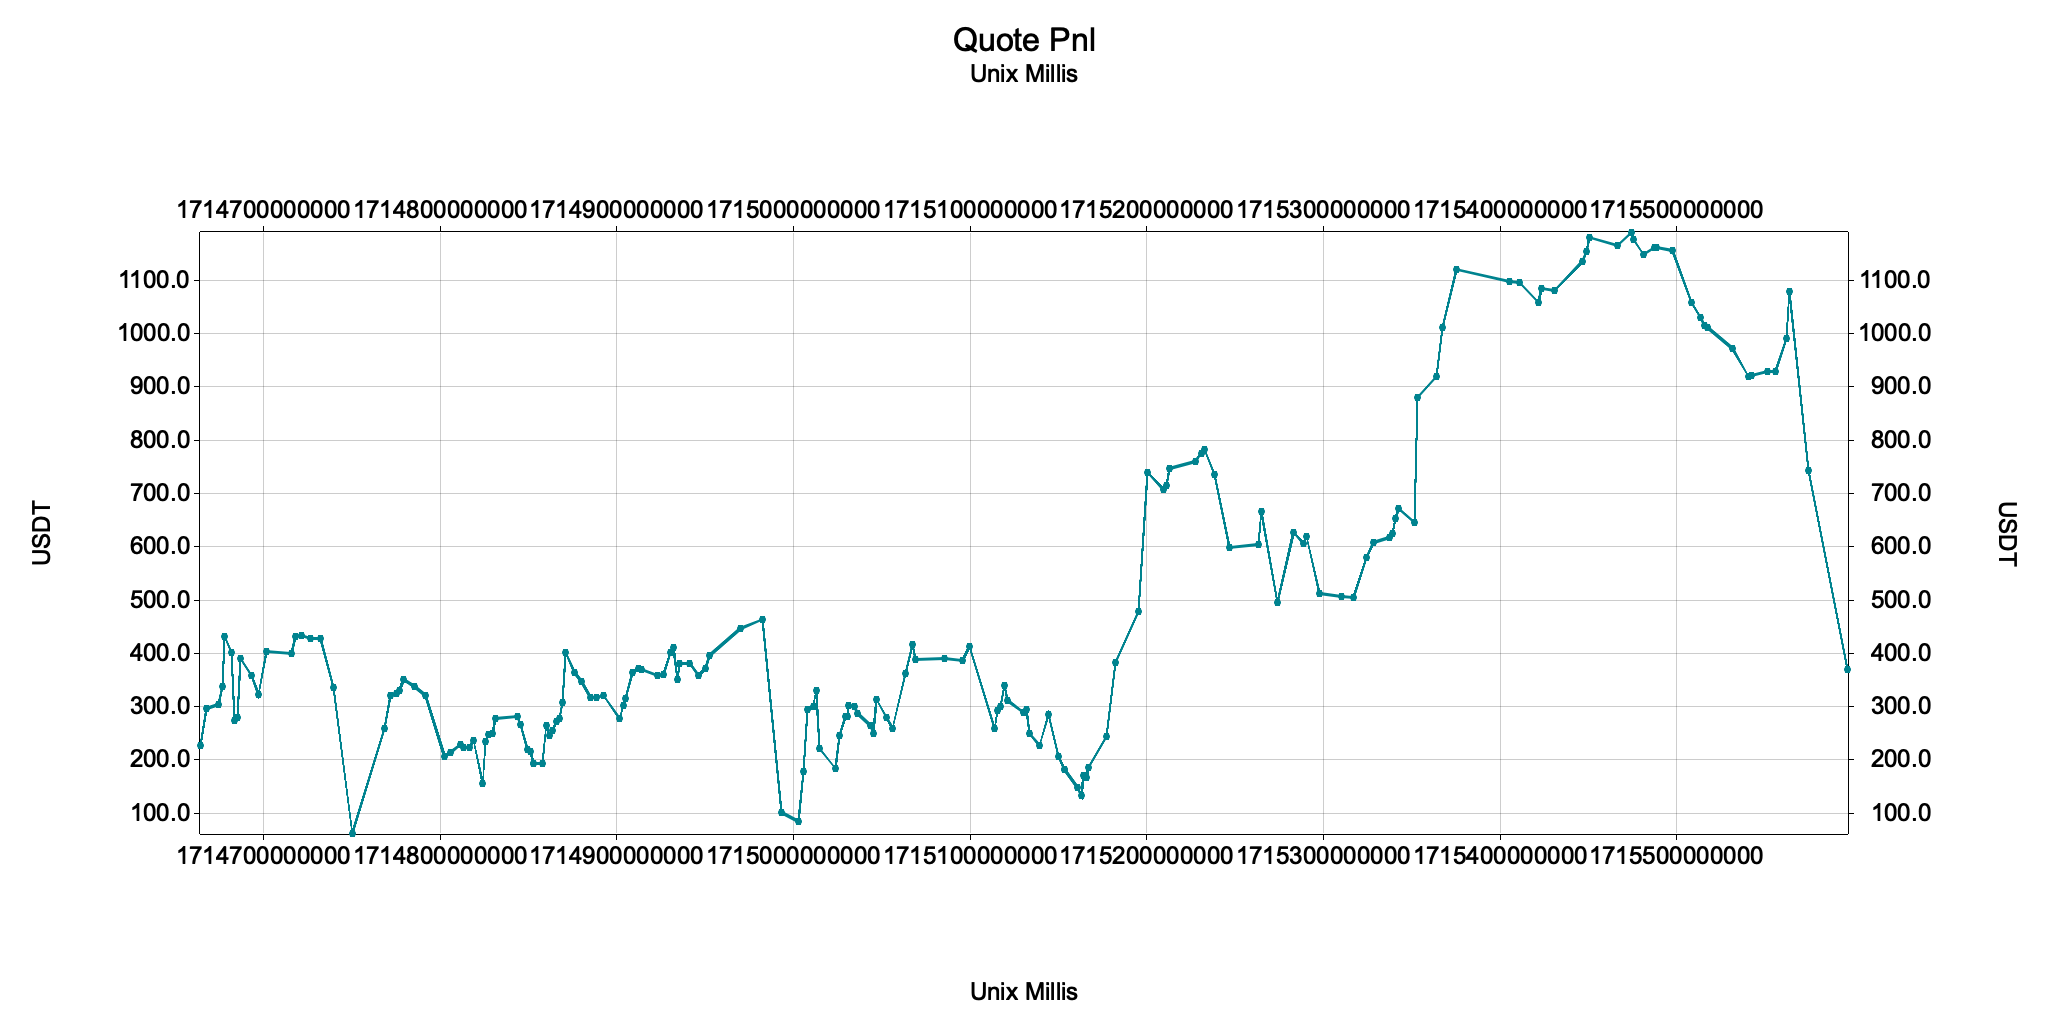
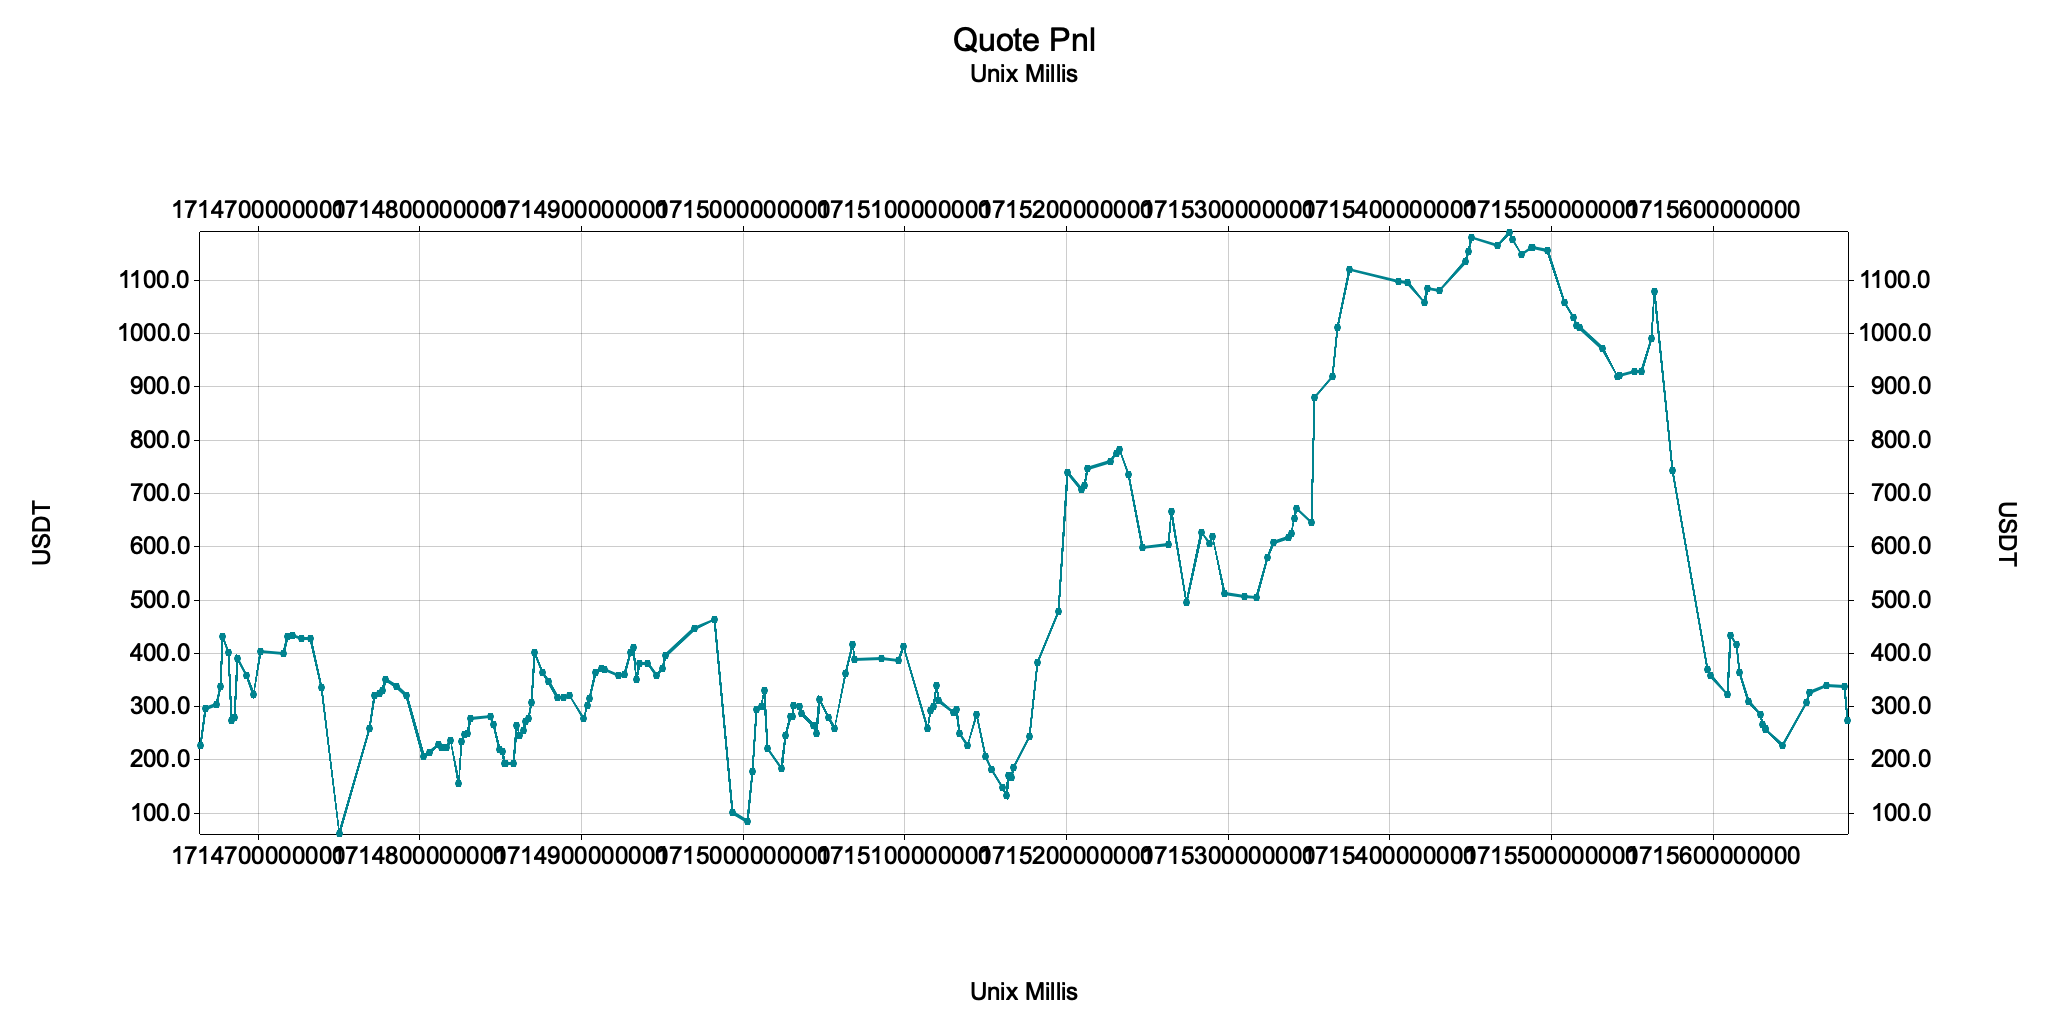
try market orders

diff --git a/dreamrunner/src/engine.rs b/dreamrunner/src/engine.rs
@@ -183,9 +183,9 @@ impl<T, S: Strategy<T>> Engine<T, S> {
       self.ticker.to_string(),
       format!("{}-{}", timestamp, "ENTRY"),
       entry_side,
-      OrderType::Limit,
+      OrderType::Market, // OrderType::Limit,
       entry_qty,
-      Some(limit),
+      None, // Some(limit),
       None,
       Time::now().to_unix_ms(),
       None,
@@ -203,9 +203,9 @@ impl<T, S: Strategy<T>> Engine<T, S> {
           self.ticker.to_string(),
           format!("{}-{}", timestamp, "STOP_LOSS"),
           stop_loss_side,
-          OrderType::StopLossLimit,
+          OrderType::StopLoss, //OrderType::StopLossLimit,
           entry_qty,
-          Some(limit), // stop order is triggered at entry to start tracking immediately
+          None, // Some(limit), // stop order is triggered at entry to start tracking immediately
           None,
           Time::now().to_unix_ms(),
           Some(stop_price), // stop order exists at the stop loss
